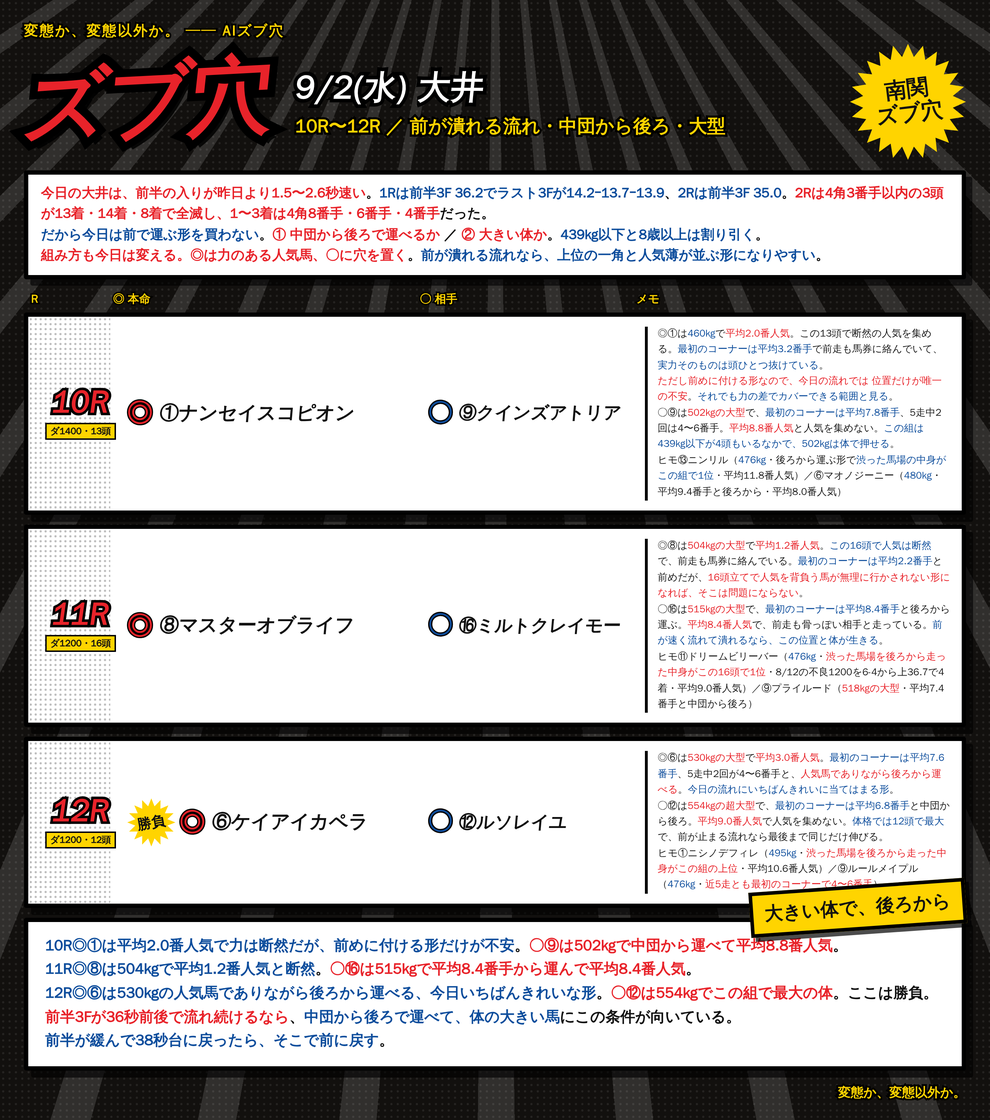
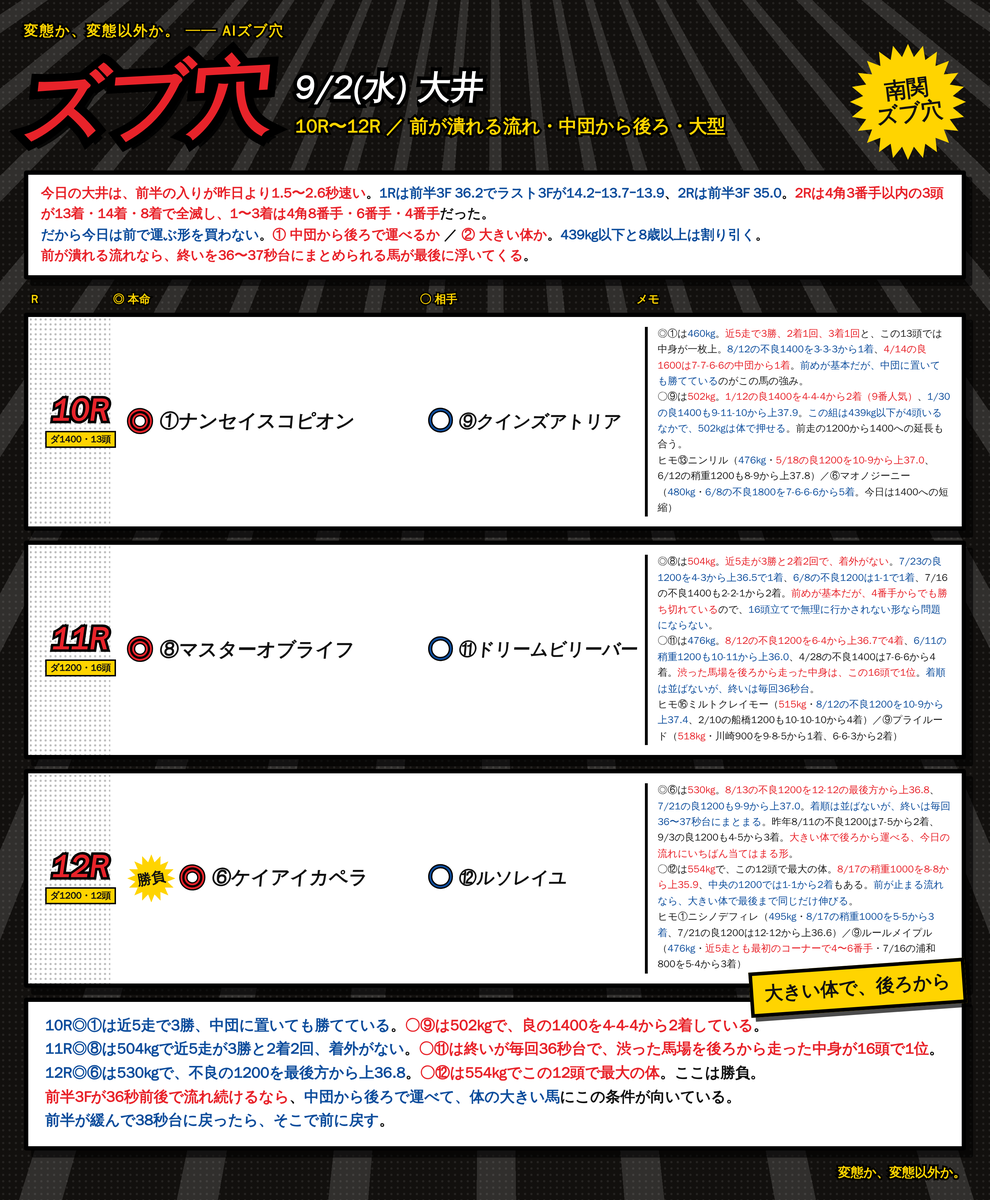
9/2 大井 9R○③・11R○⑪に変更し、印の組み立てをカードから伏せる
- 9R○をルールオーヴァー、11R○をドリームビリーバーへ
- 「◎は人気馬・○は穴」という選び方の記述をカードから全削除
- メモを各馬の過去走の事実（体重・通過順・上がり）だけに書き直した

Claude-Session: https://claude.ai/code/session_01RoHscZkr96FNaxQWvUqgEw

diff --git a/notes/live/2026-09-02/oi_7_9.html b/notes/live/2026-09-02/oi_7_9.html
@@ -79,29 +79,29 @@
 <body><div class="card"><div class="lines"></div><div class="tone"></div><div class="inner">
 <div class="kicker">変態か、変態以外か。 ── AIズブ穴</div>
 <div class="head"><div class="gekiga">ズブ穴</div><div class="dateblk"><div class="d1">9/2(水) 大井</div><div class="d2">7R〜9R ／ 前が潰れる流れ・中団から後ろ・大型</div></div><div class="burst"><span>南関<br>ズブ穴</span></div></div>
-<div class="lead"><span class="r">今日の大井は、前半の入りが昨日より1.5〜2.6秒速い</span>。<span class="b">1Rは前半3F 36.2でラスト3Fが14.2−13.7−13.9</span>、<span class="b">2Rは前半3F 35.0</span>。<span class="r">2Rは4角3番手以内の3頭が13着・14着・8着で全滅し、1〜3着は4角8番手・6番手・4番手</span>だった。<br><span class="b">だから今日は前で運ぶ形を買わない</span>。<span class="r">① 中団から後ろで運べるか</span> ／ <span class="r">② 大きい体か</span>。<span class="b">439kg以下と8歳以上は割り引く</span>。<br><span class="r">組み方も今日は変える。◎は力のある人気馬、○に穴を置く</span>。<span class="b">前が潰れる流れなら、上位の一角と人気薄が並ぶ形になりやすい</span>。</div>
+<div class="lead"><span class="r">今日の大井は、前半の入りが昨日より1.5〜2.6秒速い</span>。<span class="b">1Rは前半3F 36.2でラスト3Fが14.2−13.7−13.9</span>、<span class="b">2Rは前半3F 35.0</span>。<span class="r">2Rは4角3番手以内の3頭が13着・14着・8着で全滅し、1〜3着は4角8番手・6番手・4番手</span>だった。<br><span class="b">だから今日は前で運ぶ形を買わない</span>。<span class="r">① 中団から後ろで運べるか</span> ／ <span class="r">② 大きい体か</span>。<span class="b">439kg以下と8歳以上は割り引く</span>。<br><span class="r">前が潰れる流れなら、終いを36〜37秒台にまとめられる馬が最後に浮いてくる</span>。</div>
 <div class="cols"><div class="cR">R</div><div class="cH">◎ 本命</div><div class="cA">○ 相手</div><div class="cM">メモ</div></div>
 
   <div class="row"><div class="corner"></div>
     <div class="rN"><div class="n">7R</div><div class="d">ダ1200・15頭</div></div>
     <div class="hm"><span class="mk">◎</span><span class="nm">⑭ブラボーキングダム</span></div>
     <div class="at"><span class="mk2">○</span><span class="nm2">①ジャスミン</span></div>
-    <div class="memo">◎⑭は<b class='r'>501kgの大型</b>で、<b class='r'>近5走の最初のコーナーが平均12番手</b>と、この15頭でいちばん後ろから運ぶ。<b>それでいて人気は平均2.6番人気</b>で、渋った馬場を含めて力は上位。<b class='r'>前が潰れる今日の流れなら、この馬の位置がそのまま利点になる</b>。渋った馬場を後ろから走った中身もこの組で最上位。<br>○①は<b class='r'>1枠1番</b>で<b>471kg</b>。<b>近5走の最初のコーナーが平均3.4番手</b>と前めに付けられて、<b class='r'>平均6.4番人気と人気は集めない</b>。前走は馬券に絡んでいる。<b>内をロスなく回って、流れが速くなったぶんだけ前が止まったときに残る形</b>。<br>ヒモ⑮ヤマノリッチ（<b class='r'>512kgの大型</b>・<b>最初のコーナーが平均12番手</b>・平均9.6番人気）／⑧エスケイイーグル（<b>496kg</b>・中団から後ろで運んで平均3.6番人気）</div>
+    <div class="memo">◎⑭は<b class='r'>501kg</b>。<b class='r'>7/1の稍重1200を14-14の最後方から上36.4で1着</b>、<b>7/21の良1200も8-7から上37.2で3着</b>、<b>8/14の不良1200は11-10から4着</b>。<b class='r'>近5走とも最初のコーナーは8番手以降</b>で、<b>この15頭でいちばん後ろから運ぶ</b>。<b class='r'>前が潰れる今日の流れなら、その位置がそのまま利点になる</b>。<br>○①は<b class='r'>1枠1番</b>で<b>471kg</b>。<b>7/20の良1200を4-4から3着</b>、<b class='r'>5/20の良1200は2-2から2着（10番人気）</b>、8/14の不良1200も6-5から3着。<b>前めに付けて内をロスなく回れる</b>ので、<b class='r'>流れが速くなって前が空いたときに残る形</b>。<br>ヒモ⑮ヤマノリッチ（<b class='r'>512kg</b>・<b>6/12の稍重1400を12-12-9から2着（13番人気）</b>）／⑧エスケイイーグル（<b>496kg</b>・<b>8/14の不良1200を5-5から1着</b>、7/20の良1200も11-12から上38.0で5着）</div>
   </div>
 
   <div class="row"><div class="corner"></div>
     <div class="rN"><div class="n">8R</div><div class="d">ダ1400・12頭</div></div>
     <div class="hm"><div class="sb"><span>勝負</span></div><span class="mk">◎</span><span class="nm">⑥ワクシングムーン</span></div>
     <div class="at"><span class="mk2">○</span><span class="nm2">①コスモブライヤー</span></div>
-    <div class="memo">◎⑥は<b class='r'>507kgの大型</b>で<b class='r'>平均1.8番人気</b>。この12頭で断然の上位。<b>最初のコーナーは平均8.8番手</b>と後ろから運ぶ形で、<b class='r'>今日の流れならこの位置が効く</b>。買う材料もこの組で最多。前走は馬券に絡んでいる。<br>○①は<b class='r'>513kgの大型</b>で、<b class='r'>渋った馬場を後ろから走った中身がこの12頭で1位</b>。<b>最初のコーナーは平均10.4番手</b>と、◎よりさらに後ろ。<b class='r'>それで平均7.0番人気</b>と人気を集めない。<b>今日の形と人気薄がそのまま重なる</b>。<br>ヒモ④ライブリームーラン（<b class='r'>558kgの超大型</b>・<b>斤51の減量</b>・後ろから運ぶ）／⑪パレスゴールド（<b class='r'>520kg</b>・中団から後ろ）</div>
+    <div class="memo">◎⑥は<b class='r'>507kg</b>。<b class='r'>1/14の良2000を8-8-8-8のまま1着</b>、<b>1/27の良2000も8-8-8-7から2着</b>、<b class='r'>12/29の重1400は12-12-12から3着</b>。<b>後ろから運んで最後に届く形が、距離を問わず出ている</b>。前走8/13の不良1800も4-4-4-3で1着。今日は1400への短縮。<br>○①は<b class='r'>513kg</b>。<b class='r'>3/23の良1200を8-8から上36.2</b>、<b>4/29の稍重1200も13-13から上37.2</b>。<b>着順は並ばないが、終いは36〜37秒台にまとまる</b>。<b class='r'>渋った馬場を後ろから走った中身は、この12頭で1位</b>。<br>ヒモ④ライブリームーラン（<b class='r'>558kgの超大型</b>・<b>斤51の減量</b>・6/30の重1200を9-9から7着）／⑪パレスゴールド（<b class='r'>520kg</b>・<b>3/10の稍重1200を5-5から上37.3</b>、2/19の良1200も6-6から5着）</div>
   </div>
 
   <div class="row"><div class="corner"></div>
     <div class="rN"><div class="n">9R</div><div class="d">ダ1800・13頭</div></div>
     <div class="hm"><span class="mk">◎</span><span class="nm">⑧フジパールマン</span></div>
-    <div class="at"><span class="mk2">○</span><span class="nm2">⑩ムサシタルマエ</span></div>
-    <div class="memo">◎⑧は<b>457kg</b>で斤53の減量。<b class='r'>渋った馬場を後ろから走った中身がこの13頭で1位</b>。<b>最初のコーナーは平均9.0番手</b>と後ろから運ぶ形で、<b class='r'>平均7.4番人気</b>。<b>1800は忙しさが取れて、後ろから運ぶ形が生きる</b>。<b class='r'>前が潰れる今日の流れなら、この位置がそのまま利点になる</b>。<br>○⑩は<b>459kg</b>で<b class='r'>斤57</b>を背負う。<b class='r'>平均4.2番人気</b>で前走も馬券に絡んでいて、この13頭では上位の実力。<b>最初のコーナーは平均5.0番手</b>と中団に置ける。<b class='r'>今日いちばん来ている位置がこの中団</b>で、1R・2Rでも最初の角で4〜6番手だった馬が5頭中3頭だった。<br><b class='r'>9Rだけは◎に穴、○に人気馬を置いている</b>。<br>ヒモ⑫ノンフィクション（<b>476kg</b>・<b>斤57</b>・最初のコーナーは5走中3回が4〜6番手）／②ラウターユーベル（<b class='r'>498kg</b>・平均12.4番手と最後方から・平均10.4番人気）</div>
+    <div class="at"><span class="mk2">○</span><span class="nm2">③ルールオーヴァー</span></div>
+    <div class="memo">◎⑧は<b>457kg</b>で斤53の減量。<b class='r'>6/9の不良1600を5-5-5-4から1着</b>、<b>8/15の重1600も7-7-7-6から4着</b>、<b>7/3の不良1600は12-12-11-11から5着</b>。<b class='r'>中団から後ろに置いて、最後に上げてくる形</b>。<b>渋った馬場を後ろから走った中身は、この13頭で1位</b>。1800は初めてだが、<b class='r'>距離が延びて忙しさが取れるのはプラス</b>。<br>○③は<b>462kg</b>。<b class='r'>7/11の中央1700を15-14-13-13の最後方から8着</b>、<b>4/19の中央2000も16-16-15-14から上35.8</b>。<b class='r'>最後方からしか運べないが、そのぶん今日の流れとは噛み合う</b>。<b>南関は初戦で、相手は軽くなる</b>。<br>ヒモ⑩ムサシタルマエ（<b>459kg・斤57</b>・<b>8/14の不良1600を1-1-1-1で1着</b>、6/12の稍重1400も2-3-1から1着）／⑫ノンフィクション（<b>476kg・斤57</b>・<b class='r'>2/20の良1600を12-12-11-11から1着</b>）</div>
   </div>
-<div class="foot"><div class="yell">◎は人気馬、○に穴</div><span class="b">7R◎⑭は501kgで、この15頭でいちばん後ろから運ぶのに平均2.6番人気</span>。<span class="r">前が潰れる今日の流れなら、位置がそのまま利点になる</span>。<br><span class="b">8R◎⑥は507kgで平均1.8番人気、しかも後ろから運ぶ形</span>。<span class="r">○①は513kgでさらに後ろから、それで平均7.0番人気</span>。ここは勝負。<br><span class="b">9Rだけは◎と○が逆で、◎⑧は渋った馬場を後ろから走った中身が13頭で1位の平均7.4番人気</span>。<span class="r">○⑩は斤57を背負う平均4.2番人気で、今日いちばん来ている中団に置ける</span>。<br><span class="r">中団から後ろで運べて、体の大きい馬</span>にこの条件が向いている。</div>
+<div class="foot"><div class="yell">後ろから運べる馬</div><span class="b">7R◎⑭は501kgで、7/1の稍重1200を最後方から上36.4で勝っている</span>。<span class="r">前が潰れる今日の流れなら、その位置がそのまま利点になる</span>。<br><span class="b">8R◎⑥は507kgで、良の2000を8-8-8-8のまま押し切った馬</span>。<span class="r">○①は513kgで、終いを36秒台にまとめられる</span>。ここは勝負。<br><span class="b">9R◎⑧は457kgで、不良の1600を5-5-5-4から勝っている</span>。<span class="r">1800は忙しさが取れて、後ろに置く形が生きる</span>。<br><span class="r">中団から後ろで運べて、体の大きい馬</span>にこの条件が向いている。</div>
 <div class="sig">変態か、変態以外か。 ── ②へ続く</div>
 </div></div></body></html>

diff --git a/notes/live/2026-09-02/oi_10_12.html b/notes/live/2026-09-02/oi_10_12.html
@@ -79,29 +79,29 @@
 <body><div class="card"><div class="lines"></div><div class="tone"></div><div class="inner">
 <div class="kicker">変態か、変態以外か。 ── AIズブ穴</div>
 <div class="head"><div class="gekiga">ズブ穴</div><div class="dateblk"><div class="d1">9/2(水) 大井</div><div class="d2">10R〜12R ／ 前が潰れる流れ・中団から後ろ・大型</div></div><div class="burst"><span>南関<br>ズブ穴</span></div></div>
-<div class="lead"><span class="r">今日の大井は、前半の入りが昨日より1.5〜2.6秒速い</span>。<span class="b">1Rは前半3F 36.2でラスト3Fが14.2−13.7−13.9</span>、<span class="b">2Rは前半3F 35.0</span>。<span class="r">2Rは4角3番手以内の3頭が13着・14着・8着で全滅し、1〜3着は4角8番手・6番手・4番手</span>だった。<br><span class="b">だから今日は前で運ぶ形を買わない</span>。<span class="r">① 中団から後ろで運べるか</span> ／ <span class="r">② 大きい体か</span>。<span class="b">439kg以下と8歳以上は割り引く</span>。<br><span class="r">組み方も今日は変える。◎は力のある人気馬、○に穴を置く</span>。<span class="b">前が潰れる流れなら、上位の一角と人気薄が並ぶ形になりやすい</span>。</div>
+<div class="lead"><span class="r">今日の大井は、前半の入りが昨日より1.5〜2.6秒速い</span>。<span class="b">1Rは前半3F 36.2でラスト3Fが14.2−13.7−13.9</span>、<span class="b">2Rは前半3F 35.0</span>。<span class="r">2Rは4角3番手以内の3頭が13着・14着・8着で全滅し、1〜3着は4角8番手・6番手・4番手</span>だった。<br><span class="b">だから今日は前で運ぶ形を買わない</span>。<span class="r">① 中団から後ろで運べるか</span> ／ <span class="r">② 大きい体か</span>。<span class="b">439kg以下と8歳以上は割り引く</span>。<br><span class="r">前が潰れる流れなら、終いを36〜37秒台にまとめられる馬が最後に浮いてくる</span>。</div>
 <div class="cols"><div class="cR">R</div><div class="cH">◎ 本命</div><div class="cA">○ 相手</div><div class="cM">メモ</div></div>
 
   <div class="row"><div class="corner"></div>
     <div class="rN"><div class="n">10R</div><div class="d">ダ1400・13頭</div></div>
     <div class="hm"><span class="mk">◎</span><span class="nm">①ナンセイスコピオン</span></div>
     <div class="at"><span class="mk2">○</span><span class="nm2">⑨クインズアトリア</span></div>
-    <div class="memo">◎①は<b>460kg</b>で<b class='r'>平均2.0番人気</b>。この13頭で断然の人気を集める。<b>最初のコーナーは平均3.2番手</b>で前走も馬券に絡んでいて、<b>実力そのものは頭ひとつ抜けている</b>。<br><b class='r'>ただし前めに付ける形なので、今日の流れでは 位置だけが唯一の不安</b>。<b>それでも力の差でカバーできる範囲と見る</b>。<br>○⑨は<b class='r'>502kgの大型</b>で、<b>最初のコーナーは平均7.8番手</b>、5走中2回は4〜6番手。<b class='r'>平均8.8番人気</b>と人気を集めない。<b>この組は439kg以下が4頭もいるなかで、502kgは体で押せる</b>。<br>ヒモ⑬ニンリル（<b>476kg</b>・後ろから運ぶ形で<b>渋った馬場の中身がこの組で1位</b>・平均11.8番人気）／⑥マオノジーニー（<b>480kg</b>・平均9.4番手と後ろから・平均8.0番人気）</div>
+    <div class="memo">◎①は<b>460kg</b>。<b class='r'>近5走で3勝、2着1回、3着1回</b>と、この13頭では中身が一枚上。<b>8/12の不良1400を3-3-3から1着</b>、<b class='r'>4/14の良1600は7-7-6-6の中団から1着</b>。<b>前めが基本だが、中団に置いても勝てている</b>のがこの馬の強み。<br>○⑨は<b class='r'>502kg</b>。<b class='r'>1/12の良1400を4-4-4から2着（9番人気）</b>、<b>1/30の良1400も9-11-10から上37.9</b>。<b>この組は439kg以下が4頭いるなかで、502kgは体で押せる</b>。前走の1200から1400への延長も合う。<br>ヒモ⑬ニンリル（<b>476kg</b>・<b class='r'>5/18の良1200を10-9から上37.0</b>、6/12の稍重1200も8-9から上37.8）／⑥マオノジーニー（<b>480kg</b>・<b>6/8の不良1800を7-6-6-6から5着</b>。今日は1400への短縮）</div>
   </div>
 
   <div class="row"><div class="corner"></div>
     <div class="rN"><div class="n">11R</div><div class="d">ダ1200・16頭</div></div>
     <div class="hm"><span class="mk">◎</span><span class="nm">⑧マスターオブライフ</span></div>
-    <div class="at"><span class="mk2">○</span><span class="nm2">⑯ミルトクレイモー</span></div>
-    <div class="memo">◎⑧は<b class='r'>504kgの大型</b>で<b class='r'>平均1.2番人気</b>。<b>この16頭で人気は断然</b>で、前走も馬券に絡んでいる。<b>最初のコーナーは平均2.2番手</b>と前めだが、<b class='r'>16頭立てで人気を背負う馬が無理に行かされない形になれば、そこは問題にならない</b>。<br>○⑯は<b class='r'>515kgの大型</b>で、<b>最初のコーナーは平均8.4番手</b>と後ろから運ぶ。<b class='r'>平均8.4番人気</b>で、前走も骨っぽい相手と走っている。<b>前が速く流れて潰れるなら、この位置と体が生きる</b>。<br>ヒモ⑪ドリームビリーバー（<b>476kg</b>・<b class='r'>渋った馬場を後ろから走った中身がこの16頭で1位</b>・8/12の不良1200を6-4から上36.7で4着・平均9.0番人気）／⑨プライルード（<b class='r'>518kgの大型</b>・平均7.4番手と中団から後ろ）</div>
+    <div class="at"><span class="mk2">○</span><span class="nm2">⑪ドリームビリーバー</span></div>
+    <div class="memo">◎⑧は<b class='r'>504kg</b>。<b class='r'>近5走が3勝と2着2回で、着外がない</b>。<b>7/23の良1200を4-3から上36.5で1着</b>、<b>6/8の不良1200は1-1で1着</b>、7/16の不良1400も2-2-1から2着。<b class='r'>前めが基本だが、4番手からでも勝ち切れている</b>ので、<b>16頭立てで無理に行かされない形なら問題にならない</b>。<br>○⑪は<b>476kg</b>。<b class='r'>8/12の不良1200を6-4から上36.7で4着</b>、<b>6/11の稍重1200も10-11から上36.0</b>、4/28の不良1400は7-6-6から4着。<b class='r'>渋った馬場を後ろから走った中身は、この16頭で1位</b>。<b>着順は並ばないが、終いは毎回36秒台</b>。<br>ヒモ⑯ミルトクレイモー（<b class='r'>515kg</b>・<b>8/12の不良1200を10-9から上37.4</b>、2/10の船橋1200も10-10-10から4着）／⑨プライルード（<b class='r'>518kg</b>・川崎900を9-8-5から1着、6-6-3から2着）</div>
   </div>
 
   <div class="row"><div class="corner"></div>
     <div class="rN"><div class="n">12R</div><div class="d">ダ1200・12頭</div></div>
     <div class="hm"><div class="sb"><span>勝負</span></div><span class="mk">◎</span><span class="nm">⑥ケイアイカペラ</span></div>
     <div class="at"><span class="mk2">○</span><span class="nm2">⑫ルソレイユ</span></div>
-    <div class="memo">◎⑥は<b class='r'>530kgの大型</b>で<b class='r'>平均3.0番人気</b>。<b>最初のコーナーは平均7.6番手</b>、5走中2回が4〜6番手と、<b class='r'>人気馬でありながら後ろから運べる</b>。<b>今日の流れにいちばんきれいに当てはまる形</b>。<br>○⑫は<b class='r'>554kgの超大型</b>で、<b>最初のコーナーは平均6.8番手</b>と中団から後ろ。<b class='r'>平均9.0番人気</b>で人気を集めない。<b>体格では12頭で最大</b>で、前が止まる流れなら最後まで同じだけ伸びる。<br>ヒモ①ニシノデフィレ（<b>495kg</b>・<b class='r'>渋った馬場を後ろから走った中身がこの組の上位</b>・平均10.6番人気）／⑨ルールメイプル（<b>476kg</b>・<b class='r'>近5走とも最初のコーナーで4〜6番手</b>）</div>
+    <div class="memo">◎⑥は<b class='r'>530kg</b>。<b class='r'>8/13の不良1200を12-12の最後方から上36.8</b>、<b>7/21の良1200も9-9から上37.0</b>。<b>着順は並ばないが、終いは毎回36〜37秒台にまとまる</b>。昨年8/11の不良1200は7-5から2着、9/3の良1200も4-5から3着。<b class='r'>大きい体で後ろから運べる、今日の流れにいちばん当てはまる形</b>。<br>○⑫は<b class='r'>554kg</b>で、この12頭で最大の体。<b class='r'>8/17の稍重1000を8-8から上35.9</b>、<b>中央の1200では1-1から2着</b>もある。<b>前が止まる流れなら、大きい体で最後まで同じだけ伸びる</b>。<br>ヒモ①ニシノデフィレ（<b>495kg</b>・<b>8/17の稍重1000を5-5から3着</b>、7/21の良1200は12-12から上36.6）／⑨ルールメイプル（<b>476kg</b>・<b class='r'>近5走とも最初のコーナーで4〜6番手</b>・7/16の浦和800を5-4から3着）</div>
   </div>
-<div class="foot"><div class="yell">大きい体で、後ろから</div><span class="b">10R◎①は平均2.0番人気で力は断然だが、前めに付ける形だけが不安</span>。<span class="r">○⑨は502kgで中団から運べて平均8.8番人気</span>。<br><span class="b">11R◎⑧は504kgで平均1.2番人気と断然</span>。<span class="r">○⑯は515kgで平均8.4番手から運んで平均8.4番人気</span>。<br><span class="b">12R◎⑥は530kgの人気馬でありながら後ろから運べる、今日いちばんきれいな形</span>。<span class="r">○⑫は554kgでこの組で最大の体</span>。ここは勝負。<br><span class="r">前半3Fが36秒前後で流れ続けるなら</span>、<span class="b">中団から後ろで運べて、体の大きい馬</span>にこの条件が向いている。<br><span class="b">前半が緩んで38秒台に戻ったら、そこで前に戻す</span>。</div>
+<div class="foot"><div class="yell">大きい体で、後ろから</div><span class="b">10R◎①は近5走で3勝、中団に置いても勝てている</span>。<span class="r">○⑨は502kgで、良の1400を4-4-4から2着している</span>。<br><span class="b">11R◎⑧は504kgで近5走が3勝と2着2回、着外がない</span>。<span class="r">○⑪は終いが毎回36秒台で、渋った馬場を後ろから走った中身が16頭で1位</span>。<br><span class="b">12R◎⑥は530kgで、不良の1200を最後方から上36.8</span>。<span class="r">○⑫は554kgでこの12頭で最大の体</span>。ここは勝負。<br><span class="r">前半3Fが36秒前後で流れ続けるなら</span>、<span class="b">中団から後ろで運べて、体の大きい馬</span>にこの条件が向いている。<br><span class="b">前半が緩んで38秒台に戻ったら、そこで前に戻す</span>。</div>
 <div class="sig">変態か、変態以外か。</div>
 </div></div></body></html>

diff --git a/notes/live/2026-09-02/README.md b/notes/live/2026-09-02/README.md
@@ -58,7 +58,7 @@
 
 ---
 
-## 7R〜12R ズブ穴（◎は強い人気馬／○を穴）
+## 7R〜12R ズブ穴
 
 画像: `oi_7_9.png`（7R〜9R）／`oi_10_12.png`（10R〜12R）
 生成: `scratchpad/mk902.py`
@@ -70,29 +70,32 @@
 **前で運ぶ形は買わず、①中団から後ろで運べるか ②大きい体か を見る。**
 439kg以下と8歳以上は割り引く。
 
-**組み方も変更**：◎は力のある人気馬、○に穴を置く。
-前が潰れる流れなら、上位の一角と人気薄が並ぶ形になりやすいため。
-
 ### 印
 
-| R | 条件 | ◎ 本命（人気馬） | ○ 相手（穴） | ヒモ |
+| R | 条件 | ◎ 本命 | ○ 相手 | ヒモ |
 |---|---|---|---|---|
 | 7R | ダ1200・15頭 | ⑭ブラボーキングダム | ①ジャスミン | ⑮⑧ |
 | 8R **勝負** | ダ1400・12頭 | ⑥ワクシングムーン | ①コスモブライヤー | ④⑪ |
-| 9R ※ | ダ1800・13頭 | ⑧フジパールマン | ⑩ムサシタルマエ | ⑫② |
+| 9R | ダ1800・13頭 | ⑧フジパールマン | ③ルールオーヴァー | ⑩⑫ |
 | 10R | ダ1400・13頭 | ①ナンセイスコピオン | ⑨クインズアトリア | ⑬⑥ |
-| 11R | ダ1200・16頭 | ⑧マスターオブライフ | ⑯ミルトクレイモー | ⑪⑨ |
+| 11R | ダ1200・16頭 | ⑧マスターオブライフ | ⑪ドリームビリーバー | ⑯⑨ |
 | 12R **勝負** | ダ1200・12頭 | ⑥ケイアイカペラ | ⑫ルソレイユ | ①⑨ |
 
 - **勝負は8Rと12Rの2つ**
-- ※ **9Rだけは◎に穴、○に人気馬**（◎⑧は下地12.2で組の1位・平均7.4番人気／○⑩は平均4.2番人気・斤57）
-- ◎の平均人気：7R 2.6 ／ 8R **1.8** ／ 9R 7.4（穴） ／ 10R **2.0** ／ 11R **1.2** ／ 12R 3.0
-- ◎で後ろから運べるのは 7R⑭（平均12番手）・8R⑥（8.8）・9R⑧（9.0）・12R⑥（7.6）
-- **10R①と11R⑧は前型**なのが唯一の不安。力の差で見る形
-- ○の穴は全部「大型かつ後ろから運ぶ馬」：
-  8R①513kg ／ 10R⑨502kg ／ 11R⑯515kg ／ 12R⑫**554kg** ／ 7R①471kg（前型・1枠1番）
-- 下地スコアで組の1位は 8R○①（16.4）・9R◎⑧（12.2）・10Rヒモ⑬（12.8）
-- A群の11R⑪ドリームビリーバーはヒモ。**渋った馬場を後ろから走った中身が16頭で1位**
+- 大型：7R◎⑭501kg ／ 8R◎⑥507kg・○①513kg ／ 10R○⑨502kg ／
+  11R◎⑧504kg ／ 12R◎⑥530kg・○⑫**554kg**
+- 後ろから運べる◎：7R⑭（近5走とも初角8番手以降）・8R⑥（良2000を8-8-8-8で1着）・
+  9R⑧（不良1600を5-5-5-4で1着）・12R⑥（不良1200を最後方から上36.8）
+- **10R①と11R⑧は前めが基本**。どちらも中団・4番手からの勝ち鞍があるので、
+  そこを根拠に置いている
+- 下地スコアで組の1位は 8R○①（16.4）・9R◎⑧（12.2）・10Rヒモ⑬（12.8）・
+  11R○⑪（19.5）・12Rヒモ①（15.6）
+- **A群の11R⑪ドリームビリーバーは○に格上げ**。渋った馬場を後ろから走った中身が16頭で1位
+
+### カードの表記について
+
+**◎が人気馬・○が穴という組み立て自体はカードに書かない。**
+選び方ではなく、各馬の過去走の事実（体重・通過順・上がり）だけをメモに載せる。
 
 ### 当日の切り替え
 
